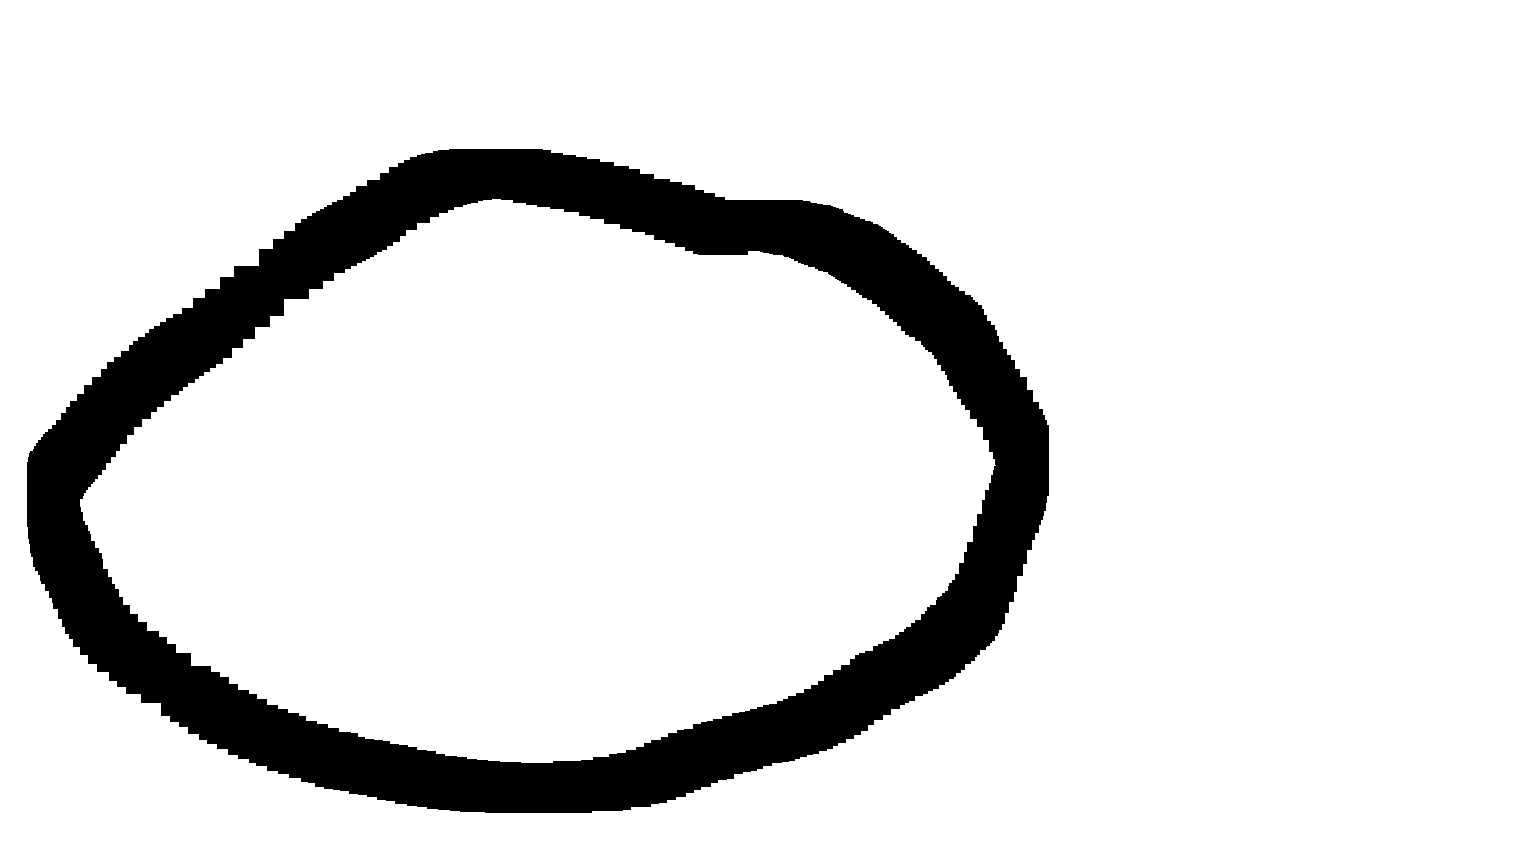
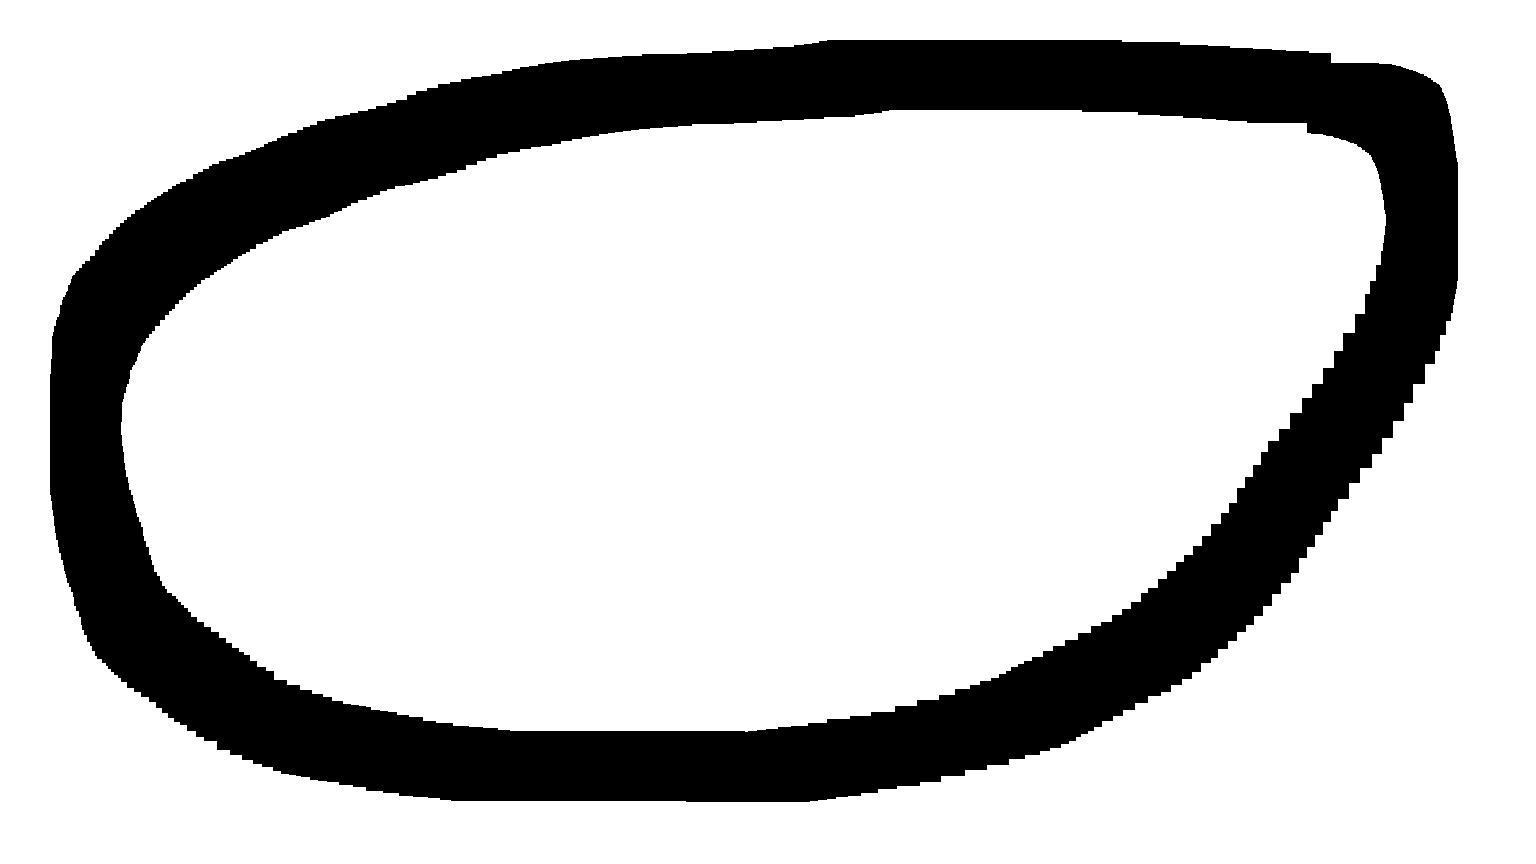
Issue solved

Changed region(s): [[0.0, 0.0312, 0.9688, 0.9688]]

diff --git a/main.py b/main.py
@@ -19,11 +19,17 @@ drawing = drawing_end = False
 while (drawing_end == False):
 	for i in pygame.event.get():
 		#if i.type == pygame.MOUSEBUTTONDOWN:
-		px, py  = pygame.mouse.get_pos()
-		pygame.draw.rect(screen, (0, 0, 0, 255), (px - 25, py - 25, 50, 50))
+		if (pygame.mouse.get_pressed()[0]):
+			#while (drawing == False):
+			px, py  = pygame.mouse.get_pos()
+			pygame.draw.rect(screen, (0, 0, 0, 255), (px - 35, py - 35, 70, 70))
+			drawing = True
 
-		if i.type == pygame.MOUSEBUTTONDOWN:
-			drawing_end = True
+		if (not pygame.mouse.get_pressed()[0]):
+			if (drawing == False):
+				pass
+			else:
+				drawing_end = True
 		pygame.display.flip()
 
 pygame.image.save(screen, "Track_new.png")
